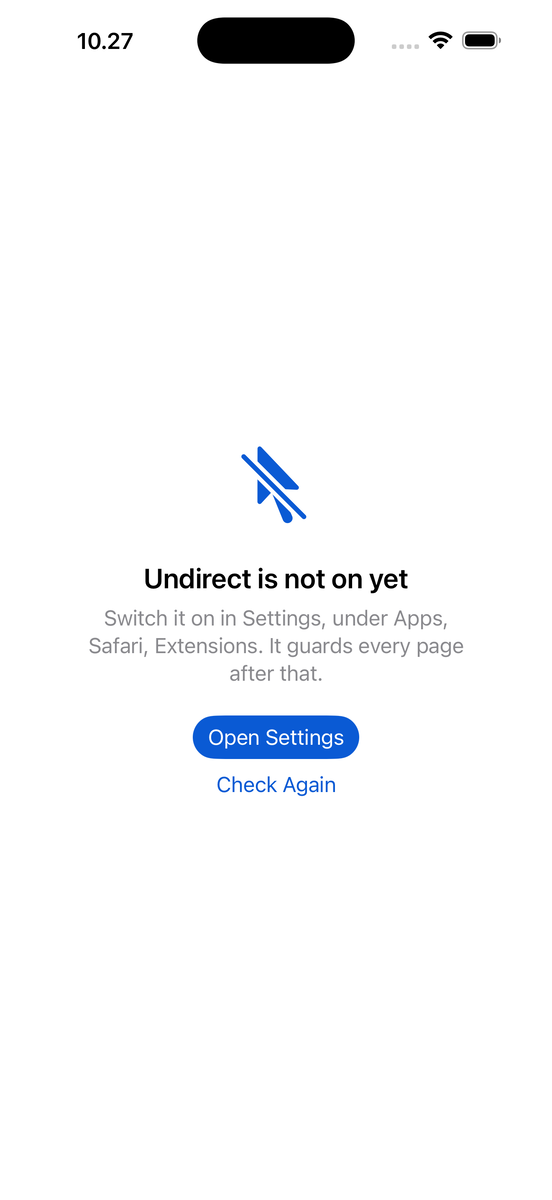
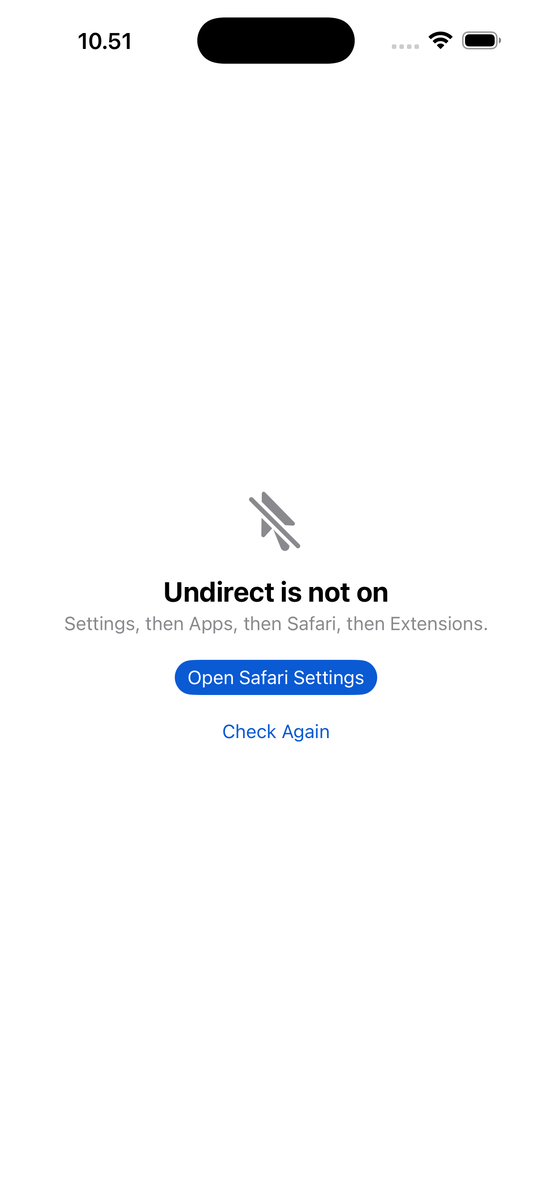
Add the welcome sheet, and rebuild the not-on screen
There was no welcome at all: first launch opened on a status message that said
the extension was off and nothing about what the app does. A sheet now carries
that, shaped like the one Reminders shows, and its button opens Safari's
Extensions pane so first launch ends with the extension on.

The not-on screen becomes ContentUnavailableView with its actions slot, which is
the system's own screen for this, replacing a hand-rolled stack.

presentationSizing(.form) is a fixed size that clipped the fourth row on macOS,
so that platform uses .fitted. The welcome flag is @AppStorage, so the privacy
manifest now declares UserDefaults under CA92.1.

Changed region(s): [[0.1232, 0.37, 0.8623, 0.6783], [0.154, 0.0308, 0.2464, 0.0617]]

diff --git a/App/SetupView.swift b/App/SetupView.swift
@@ -1,71 +1,36 @@
 import SwiftUI
-#if os(iOS)
-import UIKit
-#endif
 
-// Shown until Safari says the extension is on. The HIG asks onboarding to stay
-// on what the app does, so this says what happens next and offers the shortest
-// way there. It does not teach anyone how to use Safari.
+// The extension is off. ContentUnavailableView is the system's own screen for
+// nothing-here-yet, and it takes the action button in its own slot.
 struct SetupView: View {
     let state: ExtensionStatus.State
     let openSettings: () -> Void
     let recheck: () -> Void
 
     var body: some View {
-        VStack(spacing: 24) {
-            Spacer(minLength: 0)
-
-            Image(systemName: "cursorarrow.slash")
-                .font(.system(size: 64, weight: .light))
-                .foregroundStyle(.tint)
-                .accessibilityHidden(true)
-
-            VStack(spacing: 8) {
-                Text(headline)
-                    .font(.title2.weight(.semibold))
-                Text(subhead)
-                    .foregroundStyle(.secondary)
-                    .multilineTextAlignment(.center)
-            }
-
-            actions
-
-            Spacer(minLength: 0)
+        ContentUnavailableView {
+            Label(title, systemImage: "cursorarrow.slash")
+        } description: {
+            Text(detail)
+        } actions: {
+            Button("Open Safari Settings", action: openSettings)
+                .buttonStyle(.borderedProminent)
+            Button("Check Again", action: recheck)
         }
-        .padding(32)
-        .frame(maxWidth: 380)
-        .frame(maxWidth: .infinity, maxHeight: .infinity)
     }
 
-    private var headline: LocalizedStringKey {
+    private var title: LocalizedStringKey {
         if case .failed = state { return "Safari did not answer" }
-        return "Undirect is not on yet"
+        return "Undirect is not on"
     }
 
-    private var subhead: LocalizedStringKey {
+    private var detail: LocalizedStringKey {
         if case .failed(let reason) = state { return "\(reason)" }
         #if os(macOS)
-        return "Switch it on once and it guards every page after that."
+        return "Safari has not switched it on."
         #else
-        return "Switch it on in Settings, under Apps, Safari, Extensions. It guards every page after that."
+        return "Settings, then Apps, then Safari, then Extensions."
         #endif
-    }
-
-    @ViewBuilder
-    private var actions: some View {
-        VStack(spacing: 10) {
-            #if os(macOS)
-            Button("Open Safari Extension Settings", action: openSettings)
-                .buttonStyle(.borderedProminent)
-            #else
-            if let url = URL(string: UIApplication.openSettingsURLString) {
-                Link("Open Settings", destination: url)
-                    .buttonStyle(.borderedProminent)
-            }
-            #endif
-            Button("Check Again", action: recheck)
-                .buttonStyle(.borderless)
-        }
     }
 }
 

diff --git a/App/WelcomeView.swift b/App/WelcomeView.swift
@@ -1,0 +1,89 @@
+import SwiftUI
+
+// First launch. Says what the app does, then hands straight to switching it on.
+struct WelcomeView: View {
+    let start: () -> Void
+
+    private struct Feature: Identifiable {
+        let symbol: String
+        let title: LocalizedStringKey
+        let detail: LocalizedStringKey
+        var id: String { symbol }
+    }
+
+    private let features: [Feature] = [
+        Feature(
+            symbol: "rectangle.on.rectangle.slash",
+            title: "Invisible layers",
+            detail: "A page can cover itself to catch a press meant for something else."
+        ),
+        Feature(
+            symbol: "link",
+            title: "Swapped links",
+            detail: "Some pages rewrite a link between the press and the release."
+        ),
+        Feature(
+            symbol: "macwindow",
+            title: "Uninvited windows",
+            detail: "A window opens only when the site's own code asks for it."
+        ),
+        Feature(
+            symbol: "checklist",
+            title: "Every destination",
+            detail: "Each one is listed, to allow or block per site or everywhere."
+        ),
+    ]
+
+    var body: some View {
+        VStack(spacing: 0) {
+            ScrollView {
+                VStack(alignment: .leading, spacing: 32) {
+                    Text("Welcome to Undirect")
+                        .font(.largeTitle.weight(.bold))
+                        .padding(.top, 44)
+
+                    VStack(alignment: .leading, spacing: 26) {
+                        ForEach(features) { feature in
+                            row(feature)
+                        }
+                    }
+                }
+                .padding(.horizontal, 34)
+                .padding(.bottom, 24)
+                .frame(maxWidth: .infinity, alignment: .leading)
+            }
+
+            Button(action: start) {
+                Text("Open Safari Settings")
+                    .frame(maxWidth: .infinity)
+            }
+            .buttonStyle(.borderedProminent)
+            .controlSize(.large)
+            .padding(.horizontal, 34)
+            .padding(.bottom, 28)
+            .padding(.top, 12)
+        }
+    }
+
+    private func row(_ feature: Feature) -> some View {
+        HStack(alignment: .top, spacing: 18) {
+            Image(systemName: feature.symbol)
+                .font(.system(size: 28))
+                .foregroundStyle(.tint)
+                .frame(width: 38, alignment: .center)
+                .accessibilityHidden(true)
+
+            VStack(alignment: .leading, spacing: 3) {
+                Text(feature.title)
+                    .font(.headline)
+                Text(feature.detail)
+                    .foregroundStyle(.secondary)
+                    .fixedSize(horizontal: false, vertical: true)
+            }
+        }
+    }
+}
+
+#Preview {
+    WelcomeView(start: {})
+}

diff --git a/App/ContentView.swift b/App/ContentView.swift
@@ -7,13 +7,30 @@ struct ContentView: View {
     // iPhone and Slide Over collapse the columns. Open on the rules, not on a
     // two-item menu in front of them.
     @State private var compactColumn = NavigationSplitViewColumn.detail
+    @AppStorage("welcomeShown") private var welcomeShown = false
+    @State private var showWelcome = false
 
     var body: some View {
         screen
             .task {
+                showWelcome = !welcomeShown || forcedWelcome
                 // The file is instant. Safari can take its time.
                 rules.reload()
                 await status.refresh()
+            }
+            .sheet(isPresented: $showWelcome) {
+                WelcomeView {
+                    welcomeShown = true
+                    showWelcome = false
+                    status.openSafariSettings()
+                }
+                // .form is a fixed size and clips the fourth row on macOS.
+                #if os(macOS)
+                .presentationSizing(.fitted)
+                #else
+                .presentationSizing(.form)
+                #endif
+                .interactiveDismissDisabled()
             }
             #if os(macOS)
             .frame(minWidth: 640, minHeight: 440)
@@ -61,6 +78,14 @@ struct ContentView: View {
         }
         #endif
         return status.state
+    }
+
+    private var forcedWelcome: Bool {
+        #if DEBUG
+        return UserDefaults.standard.bool(forKey: "UndirectShowWelcome")
+        #else
+        return false
+        #endif
     }
 
     private func recheck() {

diff --git a/App/ExtensionStatus.swift b/App/ExtensionStatus.swift
@@ -1,5 +1,8 @@
 import Foundation
 import SafariServices
+#if os(iOS)
+import UIKit
+#endif
 
 let extensionBundleIdentifier = "com.matsuokengo.undirect.Extension"
 
@@ -33,6 +36,11 @@ final class ExtensionStatus {
         SFSafariApplication.showPreferencesForExtension(
             withIdentifier: extensionBundleIdentifier
         ) { _ in }
+        #else
+        // iOS has no link to the Extensions pane, so this lands in Settings.
+        if let url = URL(string: UIApplication.openSettingsURLString) {
+            UIApplication.shared.open(url)
+        }
         #endif
     }
 

diff --git a/docs/rules-and-record.md b/docs/rules-and-record.md
@@ -195,3 +195,27 @@ what the state menu carries now, and no tip framework is needed for it.
 The screen's name lives in `navigationTitle` on macOS, where it also names the
 window, and in the first section header on iOS, where a collapsed split view
 leaves the bar empty. Showing both says it twice.
+
+## First run
+
+Two screens, where there used to be one status message doing neither job.
+
+**Welcome** is a sheet on first launch, shaped like the one Reminders shows: a
+bold title, four rows of symbol, bold line and grey sentence, and a full-width
+button pinned at the bottom. No API ships for this, so it is hand-built.
+`presentationSizing` gives it the right box: `.fitted` on macOS, because `.form`
+is a fixed size that clips the fourth row, and `.form` on iOS and iPadOS where it
+lands as the centred card. The button opens Safari's Extensions pane directly, so
+first launch ends with the extension on rather than with a description of it.
+
+The sheet shows once, remembered in `@AppStorage`. That is `UserDefaults`, which
+is a required-reason API, so `PrivacyInfo.xcprivacy` now declares it under
+`CA92.1`. Debug builds take `-UndirectShowWelcome YES` to force it and
+`-welcomeShown YES` to suppress it.
+
+**Not on yet** is `ContentUnavailableView` with its `actions:` slot carrying the
+buttons. It is the system's own screen for nothing-here-yet, and it replaced a
+hand-rolled stack of centred text.
+
+The copy went through `ui-copy` first: one sentence per row, nothing addressing
+the reader, and the button naming what it does rather than saying Continue.

diff --git a/CLAUDE.md b/CLAUDE.md
@@ -54,6 +54,10 @@ Debug builds take `-UndirectForceState` and `-UndirectSeedSample`. Full account:
 - **A tip that points at one control is a popover or an annotation, never a hint
   card in the list.** The control here is macOS-only, and macOS describes a
   control with `help(_:)`, so there is no tip framework in this project.
+- **First run is two screens, not one.** A welcome sheet says what the app does
+  and its button switches the extension on; the not-on-yet screen is
+  `ContentUnavailableView` with its `actions:` slot. `presentationSizing(.form)`
+  clips on macOS, so that one uses `.fitted`. Same doc.
 
 - **A collapsed split view discards the detail column's title**, so each screen
   names itself in its first section header. `.navigationTitle` is macOS only,
